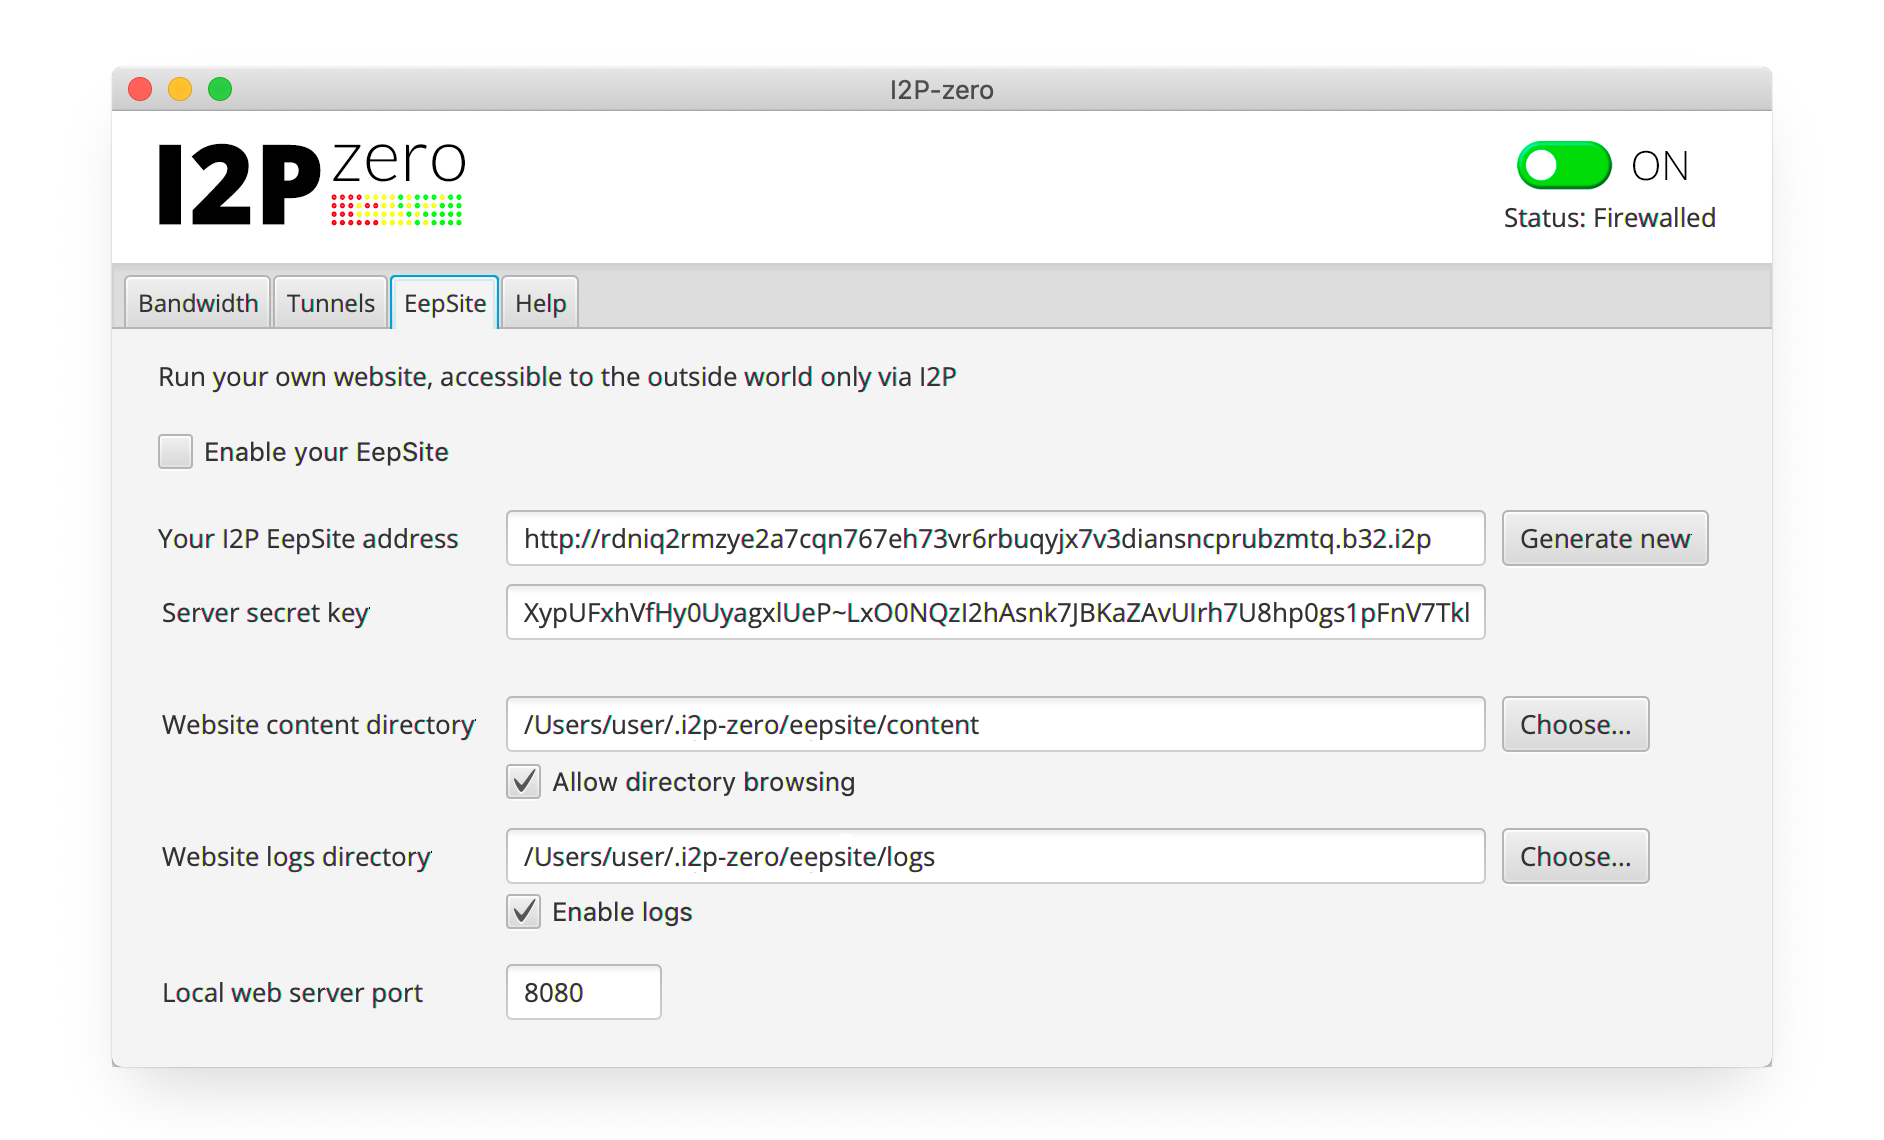
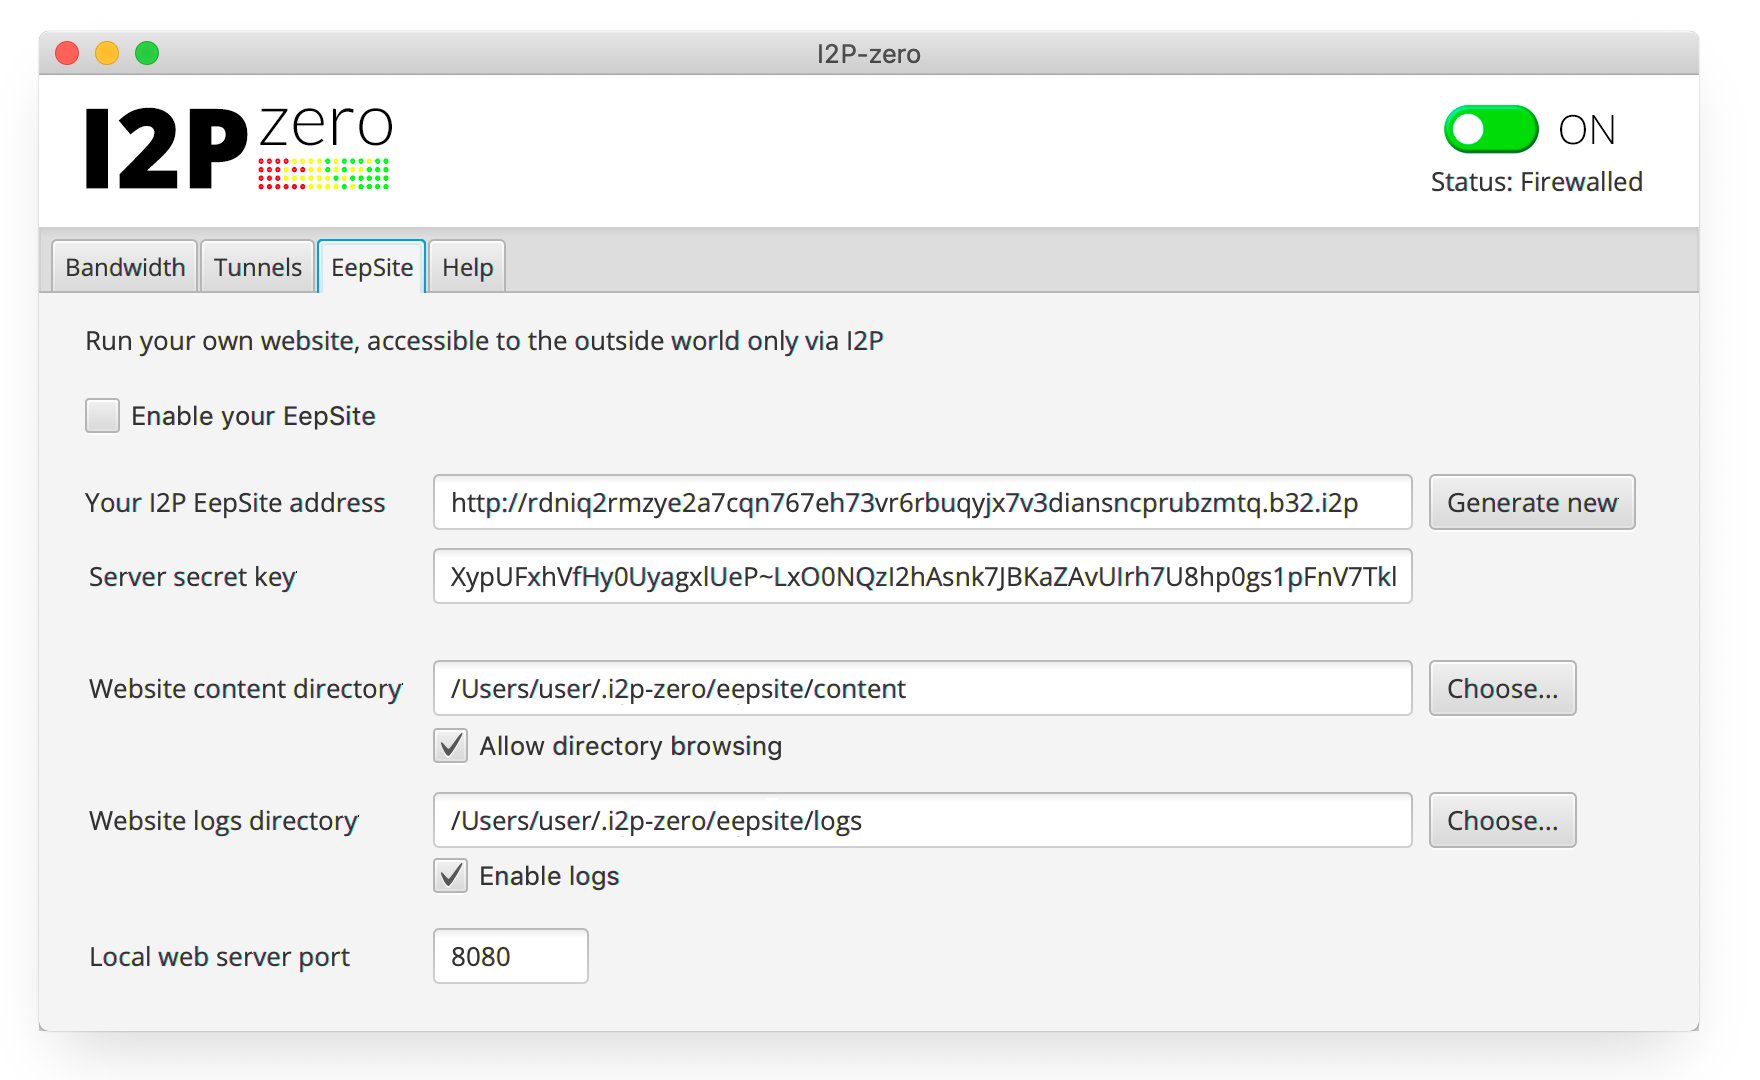
screenshot update

diff --git a/README.md b/README.md
@@ -13,7 +13,7 @@ The launchers will include the I2P router, a SAM listener, simple tunnel and soc
 <br/>
 <img src="https://github.com/knaccc/i2p-zero/blob/master/screenshot2.png" align="center" width="892" height="549">
 <br/>
-<img src="https://github.com/knaccc/i2p-zero/blob/master/screenshot3.png" align="center" width="942" height="570">
+<img src="https://github.com/knaccc/i2p-zero/blob/master/screenshot3.png" align="center" width="880" height="540">
 
 ## Footprint
 
